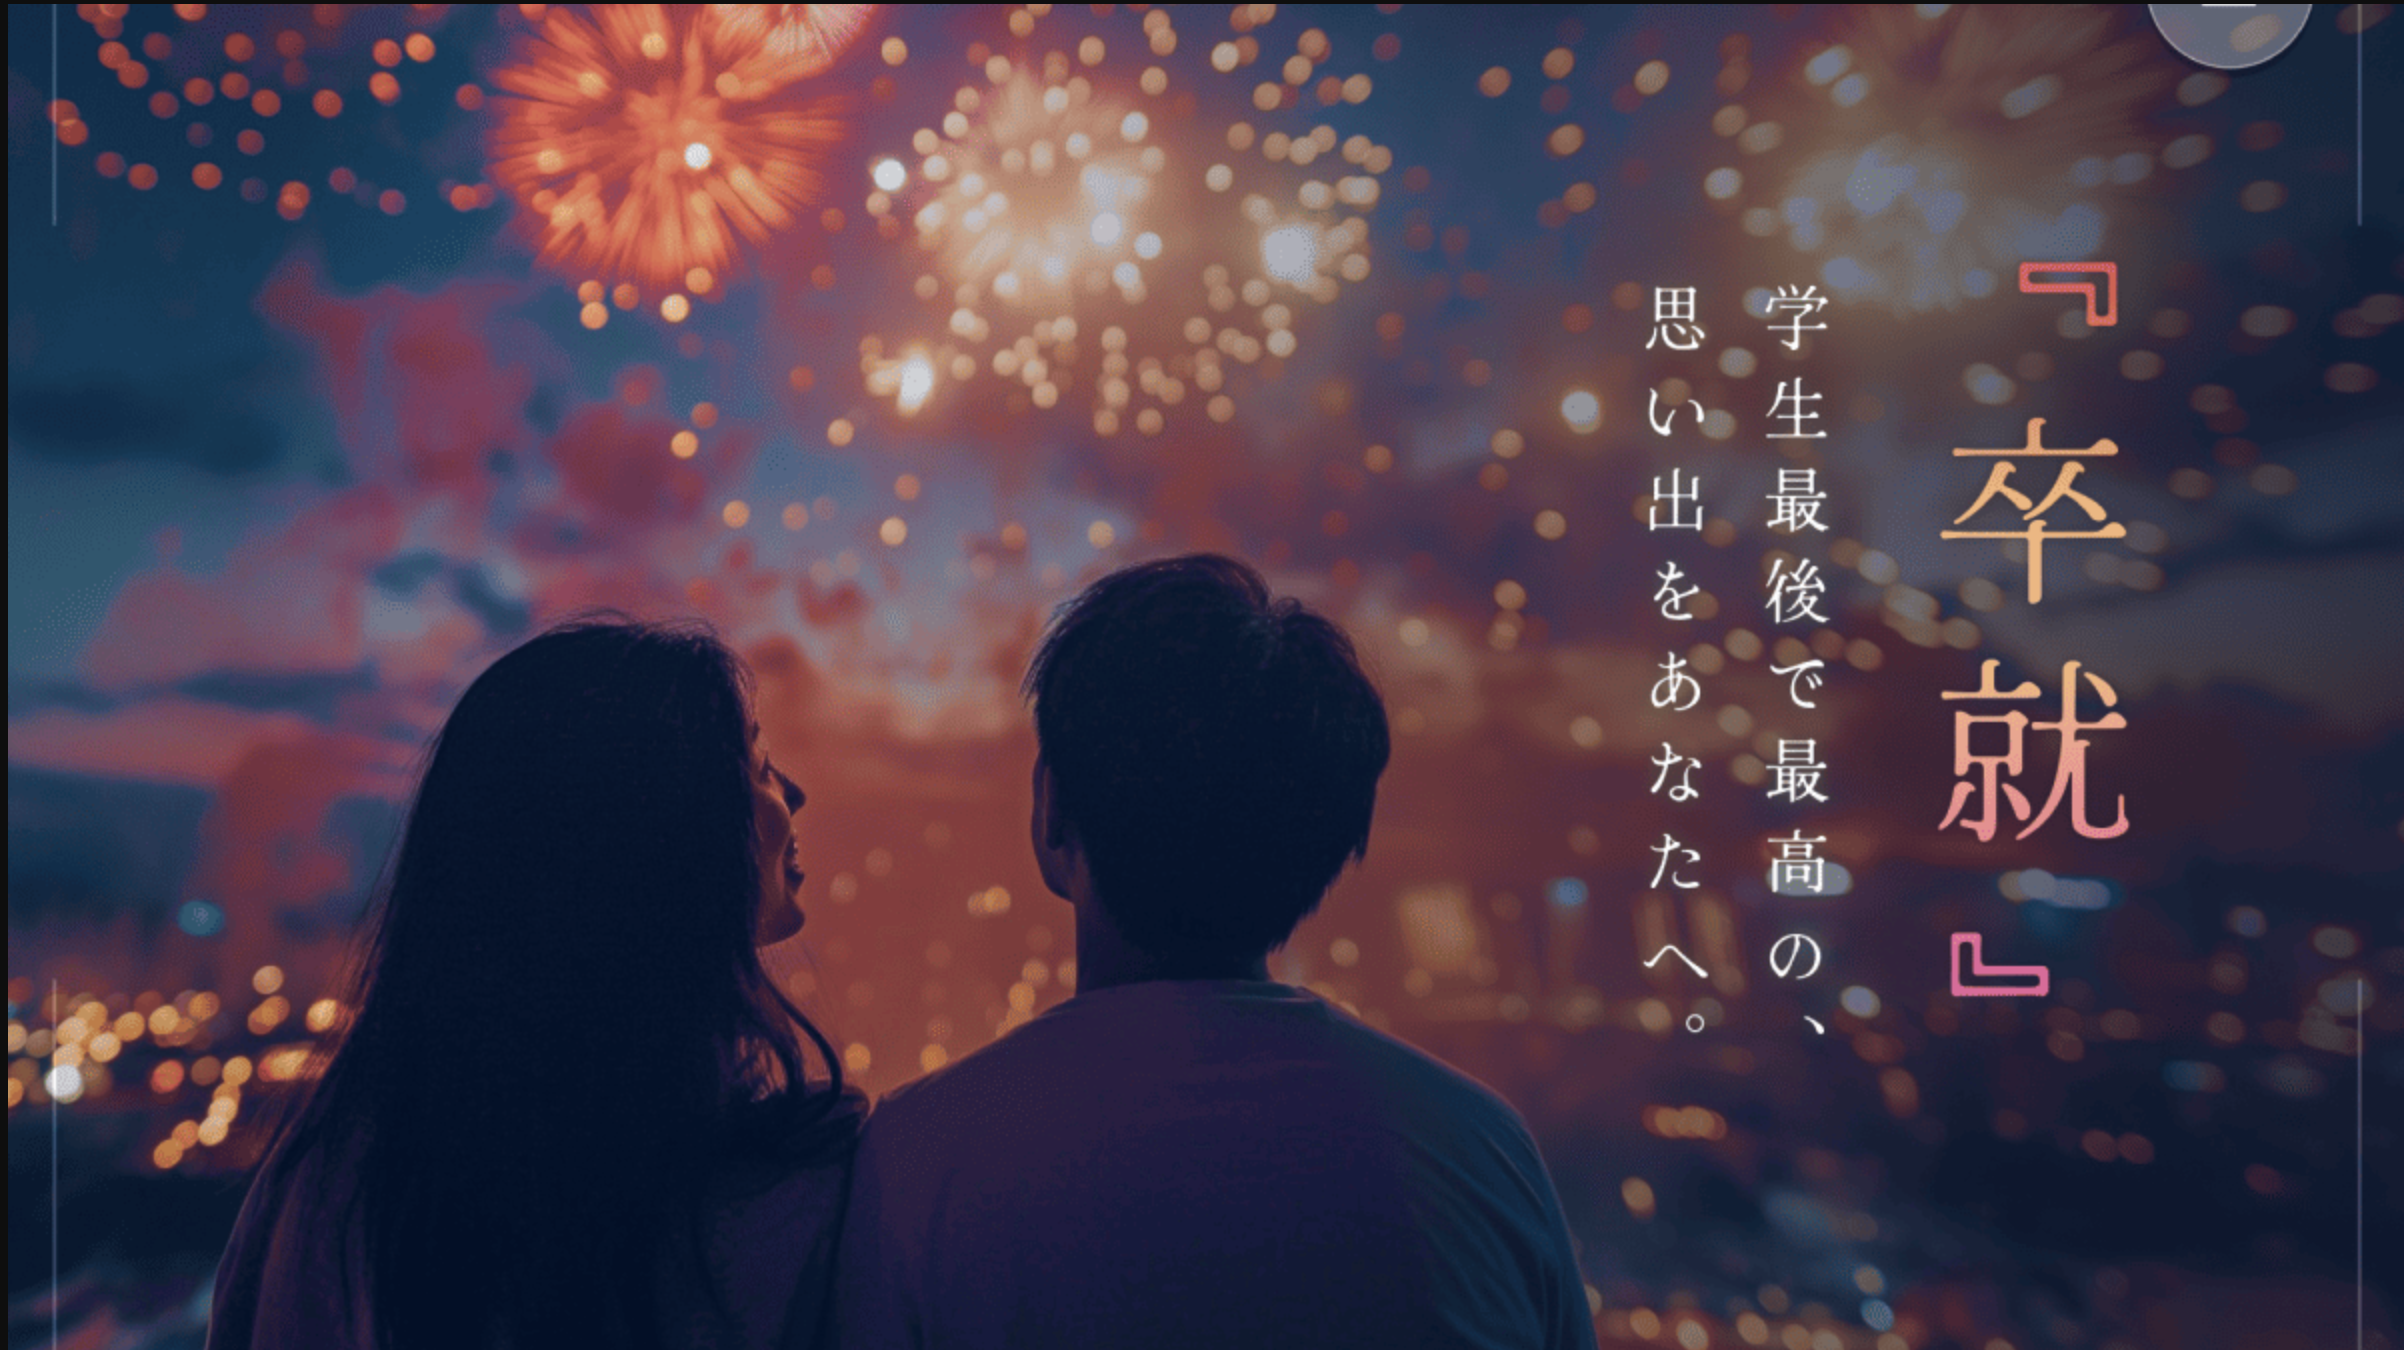
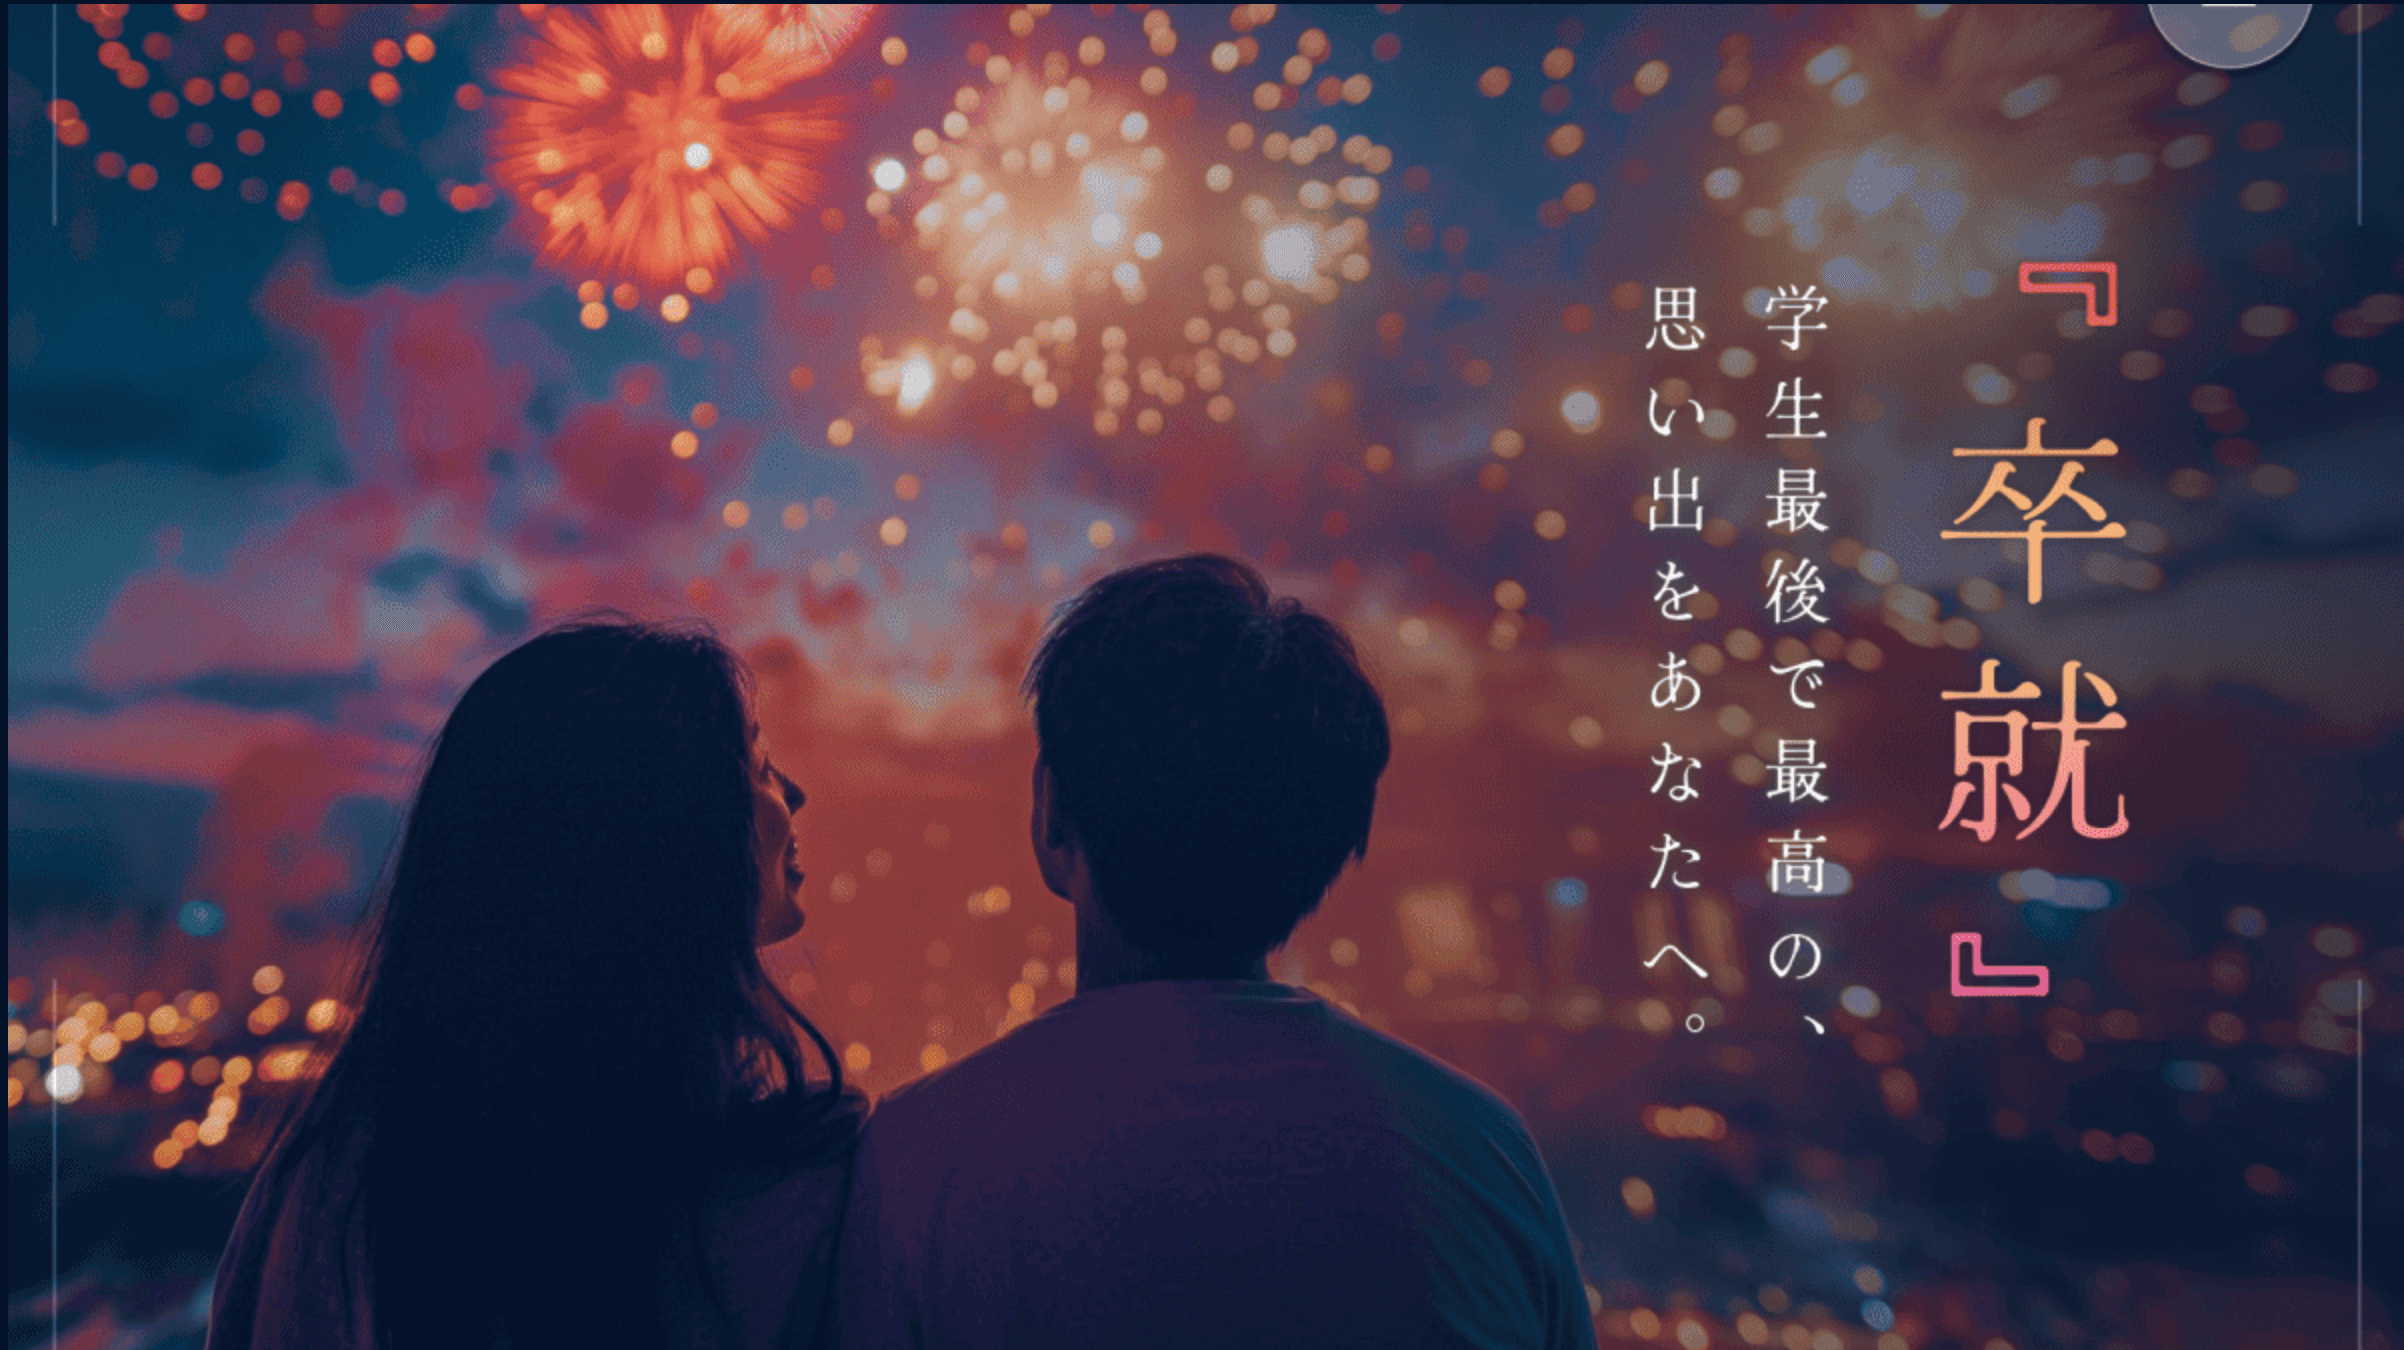
画像の圧縮

Changed region(s): [[0.0, 0.0, 0.0312, 1.0], [0.312, 0.0, 0.3744, 0.0311], [0.1872, 0.0, 0.2184, 0.0311]]

diff --git a/pages/index.vue b/pages/index.vue
@@ -8,7 +8,7 @@
             </h1>
             <p class="sub-text">戦略から実行まで一気痛感のクリエイティブパートナー</p>
         </div>
-        <div class="Group-table">      
+        <div class="Group-table"> 
           <img src="/images/kv_table.png" alt="表">
         </div>
 
@@ -1106,7 +1106,7 @@ body {
   background: url(/images/Contact_background.png);
   background-position: top center;
   background-repeat: no-repeat;
-  padding: 30px 0 0;
+  padding: 100px 0 0;
   text-align: center;
   color: #fff;
 }
@@ -1559,6 +1559,7 @@ max-width:500px;
 .contact-footer-bg {
   padding-bottom: 0 ;
   padding-top: 80px;
+  padding-bottom: 50px;
 }
 
 

diff --git a/components/contact/ContactSection.vue b/components/contact/ContactSection.vue
@@ -29,7 +29,6 @@
           </div>
         </a>
       </div>
-
     </div>
   </section>
 </template>
@@ -42,7 +41,7 @@ import AppFooter from '@/components/AppFooter.vue'
 <style scoped>
 
 .contact {
-  padding: 330px 0 0px 0 ;
+  width: 100%;
   text-align: center;
   color: #fff;
 }
